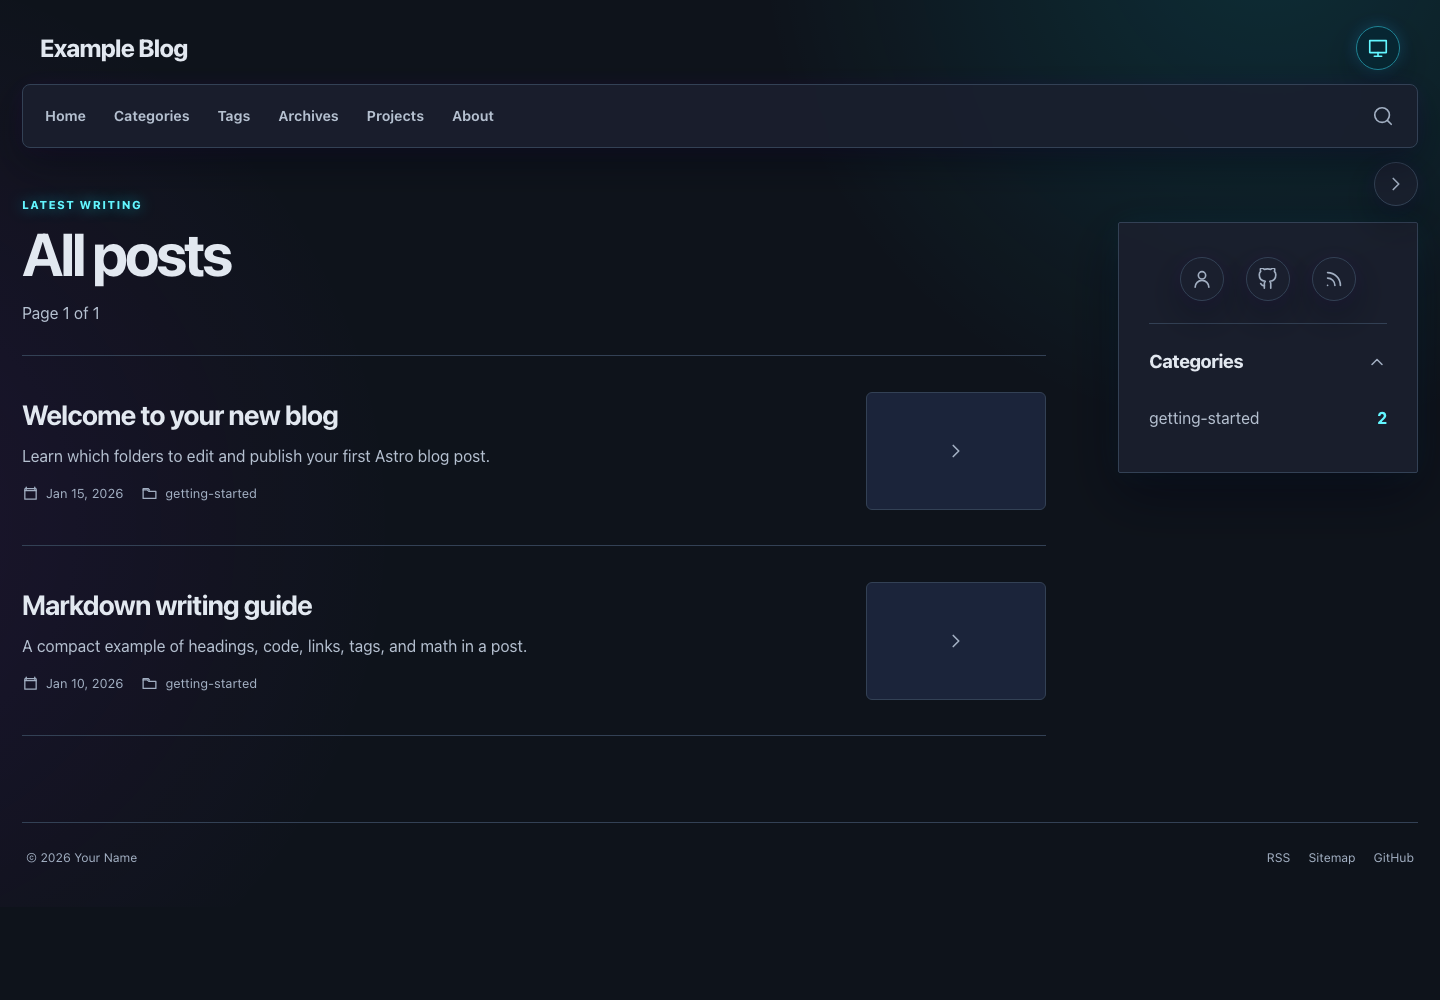
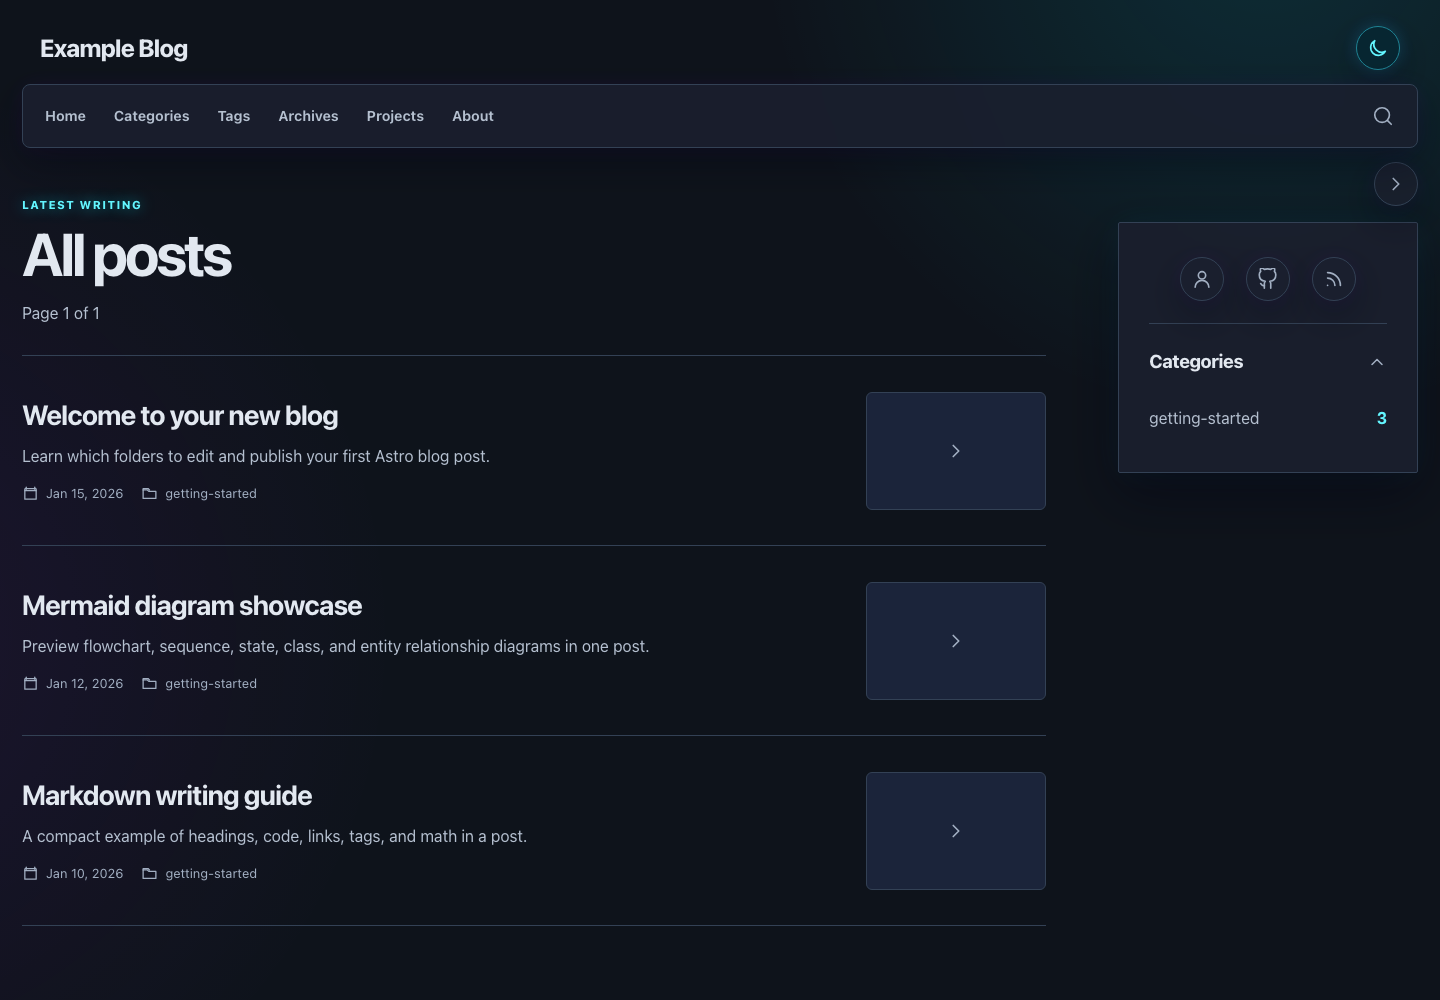
Add light and dark template previews

diff --git a/README.ko.md b/README.ko.md
@@ -8,7 +8,12 @@ Markdown 게시물, 프로젝트, 검색, RSS, sitemap, SEO 메타데이터, 다
 GitHub Pages 배포를 지원하는 설정 기반 Astro 블로그입니다. 짧은 예제 콘텐츠가
 포함되어 있으며 Astro 또는 TypeScript 파일을 수정하지 않아도 빌드할 수 있습니다.
 
-![기본 템플릿 홈 화면](public/images/site/template-preview.png)
+## 미리보기
+
+| | 라이트 | 다크 |
+| --- | --- | --- |
+| 글 목록 | ![라이트 모드 글 목록](public/images/site/template-preview-light.png) | ![다크 모드 글 목록](public/images/site/template-preview.png) |
+| Markdown 게시물 | ![라이트 모드 Markdown 게시물](public/images/site/template-post-light.png) | ![다크 모드 Markdown 게시물](public/images/site/template-post-dark.png) |
 
 ## 수정할 영역
 

diff --git a/README.ja.md b/README.ja.md
@@ -9,7 +9,12 @@ GitHub Pagesへのデプロイに対応した、設定ファイル駆動のAstro
 サンプルコンテンツが含まれており、AstroやTypeScriptのファイルを編集せずに
 ビルドできます。
 
-![テンプレートのデフォルトホーム画面](public/images/site/template-preview.png)
+## プレビュー
+
+| | ライト | ダーク |
+| --- | --- | --- |
+| 投稿一覧 | ![ライトモードの投稿一覧](public/images/site/template-preview-light.png) | ![ダークモードの投稿一覧](public/images/site/template-preview.png) |
+| Markdown投稿 | ![ライトモードのMarkdown投稿](public/images/site/template-post-light.png) | ![ダークモードのMarkdown投稿](public/images/site/template-post-dark.png) |
 
 ## 編集する場所
 

diff --git a/README.md b/README.md
@@ -8,7 +8,12 @@ A configuration-driven Astro blog with Markdown posts, projects, search, RSS,
 sitemap, SEO metadata, dark mode, and GitHub Pages deployment. The starter ships
 with short example content and builds without editing Astro or TypeScript files.
 
-![Default template home page](public/images/site/template-preview.png)
+## Preview
+
+| | Light | Dark |
+| --- | --- | --- |
+| Post list | ![Post list in light mode](public/images/site/template-preview-light.png) | ![Post list in dark mode](public/images/site/template-preview.png) |
+| Markdown post | ![Markdown post in light mode](public/images/site/template-post-light.png) | ![Markdown post in dark mode](public/images/site/template-post-dark.png) |
 
 ## What you edit
 
